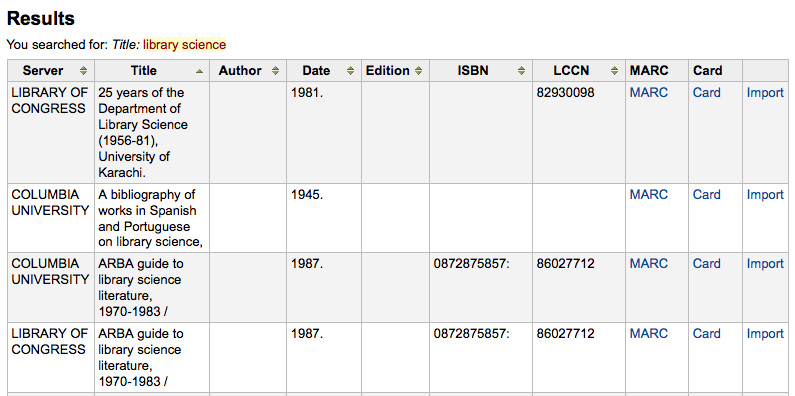
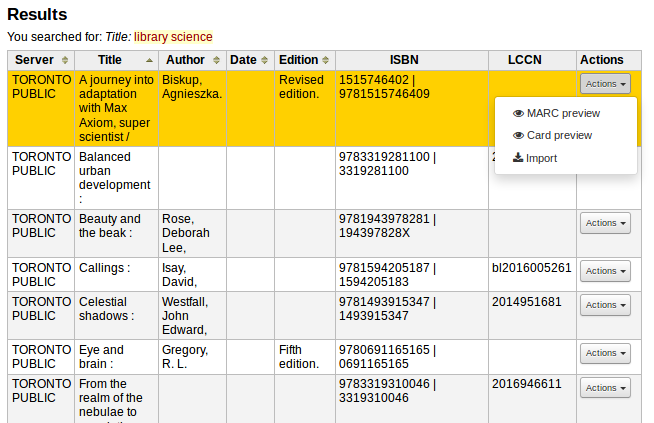
Updates Cataloging section with enhancements introduced by bugs 20081, 18904, 18417

diff --git a/source/cataloging.rst b/source/cataloging.rst
@@ -19,7 +19,7 @@ setup Appendix.
 
 .. _bibliographic-records-label:
 
-Bibliographic Records
+Bibliographic records
 ------------------------------------
 
 In Koha the bibliographic record contains the main information related
@@ -30,7 +30,7 @@ can be attached.
 
 .. _adding-records-label:
 
-Adding Records
+Adding records
 ~~~~~~~~~~~~~~~~~~~~~~~~~~~~~~~
 
 Records can be added to Koha via original or copy cataloging. You can
@@ -40,7 +40,7 @@ your work.
 If you would like to catalog a record using a blank template in the
 basic editor
 
--  Click 'New Record'
+-  Click 'New record'
 
    |image627|
 
@@ -74,16 +74,10 @@ library in the editor you last used (basic or advanced)
    -  Search targets can be altered by using the :ref:`Z39.50
       Admin <z39.50/sru-servers-label>` area.
 
-   -  From the results you can view the MARC or Card view for the
-      records or choose to Import them into Koha
+   -  From the results' 'Action' button you can view the MARC or Card 
+      view for the record or choose to import it into Koha
 
       |image629|
-
-      -  In addition to the Import link to the right of each title, you
-         can click on the title you're interested in and a menu will pop
-         up with links to preview the record and import it
-
-         |image630|
 
       -  If you don't find the title you need in your Z39.50 search
          results you can click the 'Try Another Search' button at the
@@ -93,7 +87,7 @@ library in the editor you last used (basic or advanced)
 
 .. _basic-editor-cataloging-label:
 
-Basic Editor Cataloging
+Basic editor cataloging
 ^^^^^^^^^^^^^^^^^^^^^^^^^^^^^^^^^^^^^^^^^^
 
 In the basic editor once you've opened a blank framework or imported a
@@ -108,7 +102,7 @@ cataloging
 
 -  To expand a collapsed tag click on the tag description
 
--  To get help from the Library of Congress on a Marc tag click the
+-  To get help from the Library of Congress on a MARC tag click the
    question mark (?) to the right of each field number
 
    -  It is possible to change the source of the MARC documentation using the
@@ -153,7 +147,7 @@ cataloging
    -  To remove a subfield (if there is more than one of the same type),
       click the - (minus sign) to the right of the field
 
--  To use a plugin click on the icon to the right of the filed
+-  To use a plugin click on the icon to the right of the field
 
    |image638|
 
@@ -185,19 +179,17 @@ cataloging
 
 .. _advanced-editor-cataloging-label:
 
-Advanced Editor Cataloging
+Advanced editor cataloging
 ^^^^^^^^^^^^^^^^^^^^^^^^^^^^^^^^^^^^^^^^^^^^^^^^
 
 In order to use the Advanced cataloging editor you need to enable the
-:ref:`EnableAdvancedCatalogingEditor`
+:ref:`EnableAdvancedCatalogingEditor <enableadvancedcatalogingeditor-label>`
 preference.
 
-    **Important**
+    **Note**
 
-    This feature is currently experimental, and may have bugs that cause
-    corruption of records. It also does not include any support for
-    UNIMARC or NORMARC fixed fields. Please help us test it and report
-    any bugs, but do so at your own risk.
+    This feature does not currently include any support for
+    UNIMARC or NORMARC fixed fields.
 
 In the advanced editor once you've opened a blank framework or imported
 a record via Z39.50 you will be presented with the form to continue
@@ -240,7 +232,7 @@ commands
 
 .. _advanced-cataloging-keyboard-shortcuts-label:
 
-Advanced Cataloging Keyboard Shortcuts
+Advanced cataloging keyboard shortcuts
 ''''''''''''''''''''''''''''''''''''''''''''''''''''''''''''''''''
 
 The following keyboard shortcuts can be used in the advanced cataloging
@@ -249,9 +241,16 @@ module to save time and clicking.
 +----------------+--------------------------------+
 | Shortcut       | Behavior                       |
 +================+================================+
+| Alt-C          | Insert copyright symbol (©)    |
++----------------+--------------------------------+
+| Alt-P          | Insert copyright symbol (℗)    |
+|                | (sound recordings)             |
++----------------+--------------------------------+
 | Ctrl-D         | Insert delimiter (‡)           |
 +----------------+--------------------------------+
 | Ctrl-H         | Get help on current subfield   |
++----------------+--------------------------------+
+| Ctrl-Shift-L   | Link field to authorities      |
 +----------------+--------------------------------+
 | Ctrl-S         | Save record                    |
 +----------------+--------------------------------+
@@ -270,12 +269,12 @@ module to save time and clicking.
 
 .. _macros-in-advanced-cataloging-label:
 
-Macros in Advanced Cataloging
+Macros in advanced cataloging
 '''''''''''''''''''''''''''''''''''''''''''''''''''''
 
 To record a new macro:
 
--  Select the "> Macros..." button
+-  Select the "Macros..." button
 
 -  A window will pop up. In this window, select "New macro...," key the
    new macro's name in the pop-up box and select OK.
@@ -291,7 +290,7 @@ To record a new macro:
 
 To edit an existing macro:
 
--  Select the "> Macros..." button
+-  Select the "Macros..." button
 
 -  A window will pop up. In this window, select the macro that you wish
    to edit & make your changes.
@@ -342,7 +341,7 @@ The basic syntax of the macro language:
 
 .. _adding-analytic-records-label:
 
-Adding Analytic Records
+Adding analytic records
 ~~~~~~~~~~~~~~~~~~~~~~~~~~~~~~~~~~~~~~~~~~~~~~~
 
 Libraries sometimes make journal articles and articles within monographs
@@ -360,18 +359,18 @@ other is the :ref:`Analytics Enhanced Workflow`.
 
 .. _easy-analytics-label:
 
-Easy Analytics
+Easy analytics
 ^^^^^^^^^^^^^^^^^^^^^^^^^^^^^^^^^^^^^^^^^^
 
-The Easy Analytics feature makes linking analytic records together
+The easy analytics feature makes linking analytic records together
 easier. The first thing you need to do is set the
 :ref:`EasyAnalyticalRecords` preference to
 'Display' and the :ref:`UseControlNumber` preference to
 'Don't use.'
 
 After cataloging your analytic record (see :ref:`Adding
-Records <adding-records-label>` for more on creating records) click 'Edit' from
-the normal view and choose to 'Link to Host Item'
+records <adding-records-label>` for more on creating records) click 'Edit' from
+the normal view and choose to 'Link to host item'
 
 |image646|
 
@@ -391,18 +390,18 @@ the link.
 |image649|
 
 To view all of the items tied to the host record, do a search for the
-record, click the Analytics tab on the left and the analytics tied to
-each barcode will be shown under the "Used in" column.
+record, click the 'Analytics' tab on the left and the analytics tied to
+each barcode will be shown under the 'Used in' column.
 
 |image650|
 
     **Note**
 
     It is also possible to create analytic records from this screen by
-    clicking on "Create Analytics"
+    clicking on 'Create analytics'
 
 You can also see the analytics attached to this record by clicking the
-'Show Analytic' link towards the top of the record in the normal view.
+'Show analytic' link towards the top of the record in the normal view.
 
 |image651|
 
@@ -414,17 +413,17 @@ the 'Analytics' tab.
 
 .. _analytics-enhanced-workflow-label:
 
-Analytics Enhanced Workflow
+Analytics enhanced workflow
 ^^^^^^^^^^^^^^^^^^^^^^^^^^^^^^^^^^^^^^^^^^^^^^^^^^^^^^^^^^
 
-To use the Enhanced Workflow method of adding analytics, the first thing
+To use the enhanced workflow method of adding analytics, the first thing
 you need to do is set the
 :ref:`EasyAnalyticalRecords` preference to 'Don't
 display' and the :ref:`UseControlNumber` preference to
 'Use.'
 
 After cataloging your original record (see :ref:`Adding
-Records <adding-records-label>` for more on creating records) click 'New' from
+records <adding-records-label>` for more on creating records) click 'New' from
 the normal view and choose to 'New child record.'
 
 |image653|
@@ -436,13 +435,13 @@ record is saved.
 |image654|
 
 To view all of the items tied to the host record, do a search for the
-record, click the Analytics tab on the left and the analytics tied to
-each barcode will be shown under the "Used in" column.
+record, click the 'Analytics' tab on the left and the analytics tied to
+each barcode will be shown under the 'Used in' column.
 
 |image655|
 
 You can also see the analytics attached to this record by clicking the
-'Show Analytic' link towards the top of the record in the normal view.
+'Show analytic' link towards the top of the record in the normal view.
 
 |image656|
 
@@ -454,7 +453,7 @@ the 'Analytics' tab.
 
 .. _editing-analytics-label:
 
-Editing Analytics
+Editing analytics
 ^^^^^^^^^^^^^^^^^^^^^^^^^^^^^^^^^^^^^^^^
 
 If you have linked an analytic record incorrectly you can remove that
@@ -465,7 +464,7 @@ options.
 
 |image658|
 
--  Clicking 'Edit in Host' will allow you to edit the item on the host
+-  Clicking 'Edit in host' will allow you to edit the item on the host
    record.
 
 -  Clicking 'Delink' will remove the 773 field and the link between the
@@ -473,11 +472,11 @@ options.
 
 .. _editing-records-label:
 
-Editing Records
+Editing records
 ~~~~~~~~~~~~~~~~~~~~~~~~~~~~~~~~~
 
-To edit a record you can click 'Edit Biblio' from the search results on
-the cataloging page
+To edit a record you can click the 'Actions' button and choose 'Edit biblio' 
+from the search results on the cataloging search page
 
 |image659|
 
@@ -492,11 +491,11 @@ The record will open in the MARC editor
 
 The alternative is to search via Z39.50 to overlay your record with a
 fuller record found at another library. You can do this by choosing
-'Replace Record via Z39.50' from the Edit menu.
+'Replace record via Z39.50/SRU' from the 'Edit' menu.
 
 |image662|
 
-Once you choose that you will be brought to a Z39.50 search window to
+Once you choose that, you will be brought to a Z39.50 search window to
 search other libraries for the record in question.
 
 Once you have made your edits (via either method) you can click 'Save'
@@ -505,34 +504,34 @@ at the top left of the editor.
 You can also use the edit menu to add your own custom cover image if you
 have either :ref:`OPACLocalCoverImages` and/or
 :ref:`LocalCoverImages` set to 'Display' by choosing
-'Upload Image' from the menu.
+'Upload image' from the menu.
 
 |image663|
 
-Choosing to 'Upload Image' will take you to the :ref:`Upload Local Cover
+Choosing 'Upload image' will take you to the :ref:`Upload Local Cover
 Image Tool <upload-local-cover-image-label>`.
 
 .. _duplicating-records-label:
 
-Duplicating Records
+Duplicating records
 ~~~~~~~~~~~~~~~~~~~~~~~~~~~~~~~~~~~~
 
 Sometimes a copy of the record you need to catalog can't be found via
 Z39.50. In these cases you can create a duplicate of similar record and
 edit the necessary pieces to create a new record. To duplicate an
-existing record click 'Edit as New (Duplicate)' from the Edit menu on
-the Bibliographic Record
+existing record click 'Edit as new (duplicate)' from the 'Edit' menu on
+the bibliographic record.
 
 |image664|
 
 This will open a new MARC record with the fields filled in with the
-values from the original Bibliographic Record.
+values from the original bibliographic record.
 
 |image665|
 
 .. _attaching-files-to-records-label:
 
-Attaching files to Records
+Attaching files to records
 ~~~~~~~~~~~~~~~~~~~~~~~~~~~~~~~~~~~~~~~~~~~~~~~
 
 If you would like to upload files to Koha you can do so with a few
@@ -543,7 +542,7 @@ settings.
    stored
 
    -  You can see if your upload path is set correctly by visiting About
-      Koha > System Information. If there is an error you will see it
+      Koha > System information. If there is an error you will see it
       there.
 
       |image1264|
@@ -569,9 +568,17 @@ the search results you can choose which file to attach.
 Once the file is chosen it will appear as a link in the MARC record and
 on the detail display.
 
+|image1334|
+
+    **Note**
+
+    If the file is a PDF, it will be opened directly in the user's browser 
+    whereas if the file is an image or another type of file, the user will 
+    be prompted to download it.
+
 .. _merging-records-label:
 
-Merging Records
+Merging records
 ~~~~~~~~~~~~~~~~~~~~~~~~~~~~~~~~
 
 To merge bibliographic records together you will want to go to the
@@ -641,7 +648,7 @@ be deleted.
 
 .. _deleting-records-label:
 
-Deleting Records
+Deleting records
 ~~~~~~~~~~~~~~~~~~~~~~~~~~~~~~~~~~~~
 
 To delete a bibliographic record simply choose the 'Edit' button and
@@ -649,7 +656,7 @@ select 'Delete record'
 
 |image672|
 
-Bibliographic records can only be deleted one all items have been
+Bibliographic records can only be deleted once all items have been
 deleted. If you try to delete a bibliographic record with items still
 attached you will see that the delete option is grayed out.
 

diff --git a/source/images.rst b/source/images.rst
@@ -627,7 +627,6 @@
 .. |image627| image:: images/cataloging/newfromframework.png
 .. |image628| image:: images/cataloging/zsearch.png
 .. |image629| image:: images/cataloging/zsearchresults.png
-.. |image630| image:: images/cataloging/importz39.png
 .. |image631| image:: images/cataloging/tryanotherzsearch.png
 .. |image632| image:: images/cataloging/addmarc.png
 .. |image633| image:: images/cataloging/lockedauthority.png
@@ -1324,3 +1323,4 @@
 .. |image1331| image:: images/circ/selfcheckin.png
 .. |image1332| image:: images/circ/selfcheckinaddbarcode.png
 .. |image1333| image:: images/circ/selfcheckincheckin.png
+.. |image1334| image:: images/cataloging/uploadedfiledetail.png
